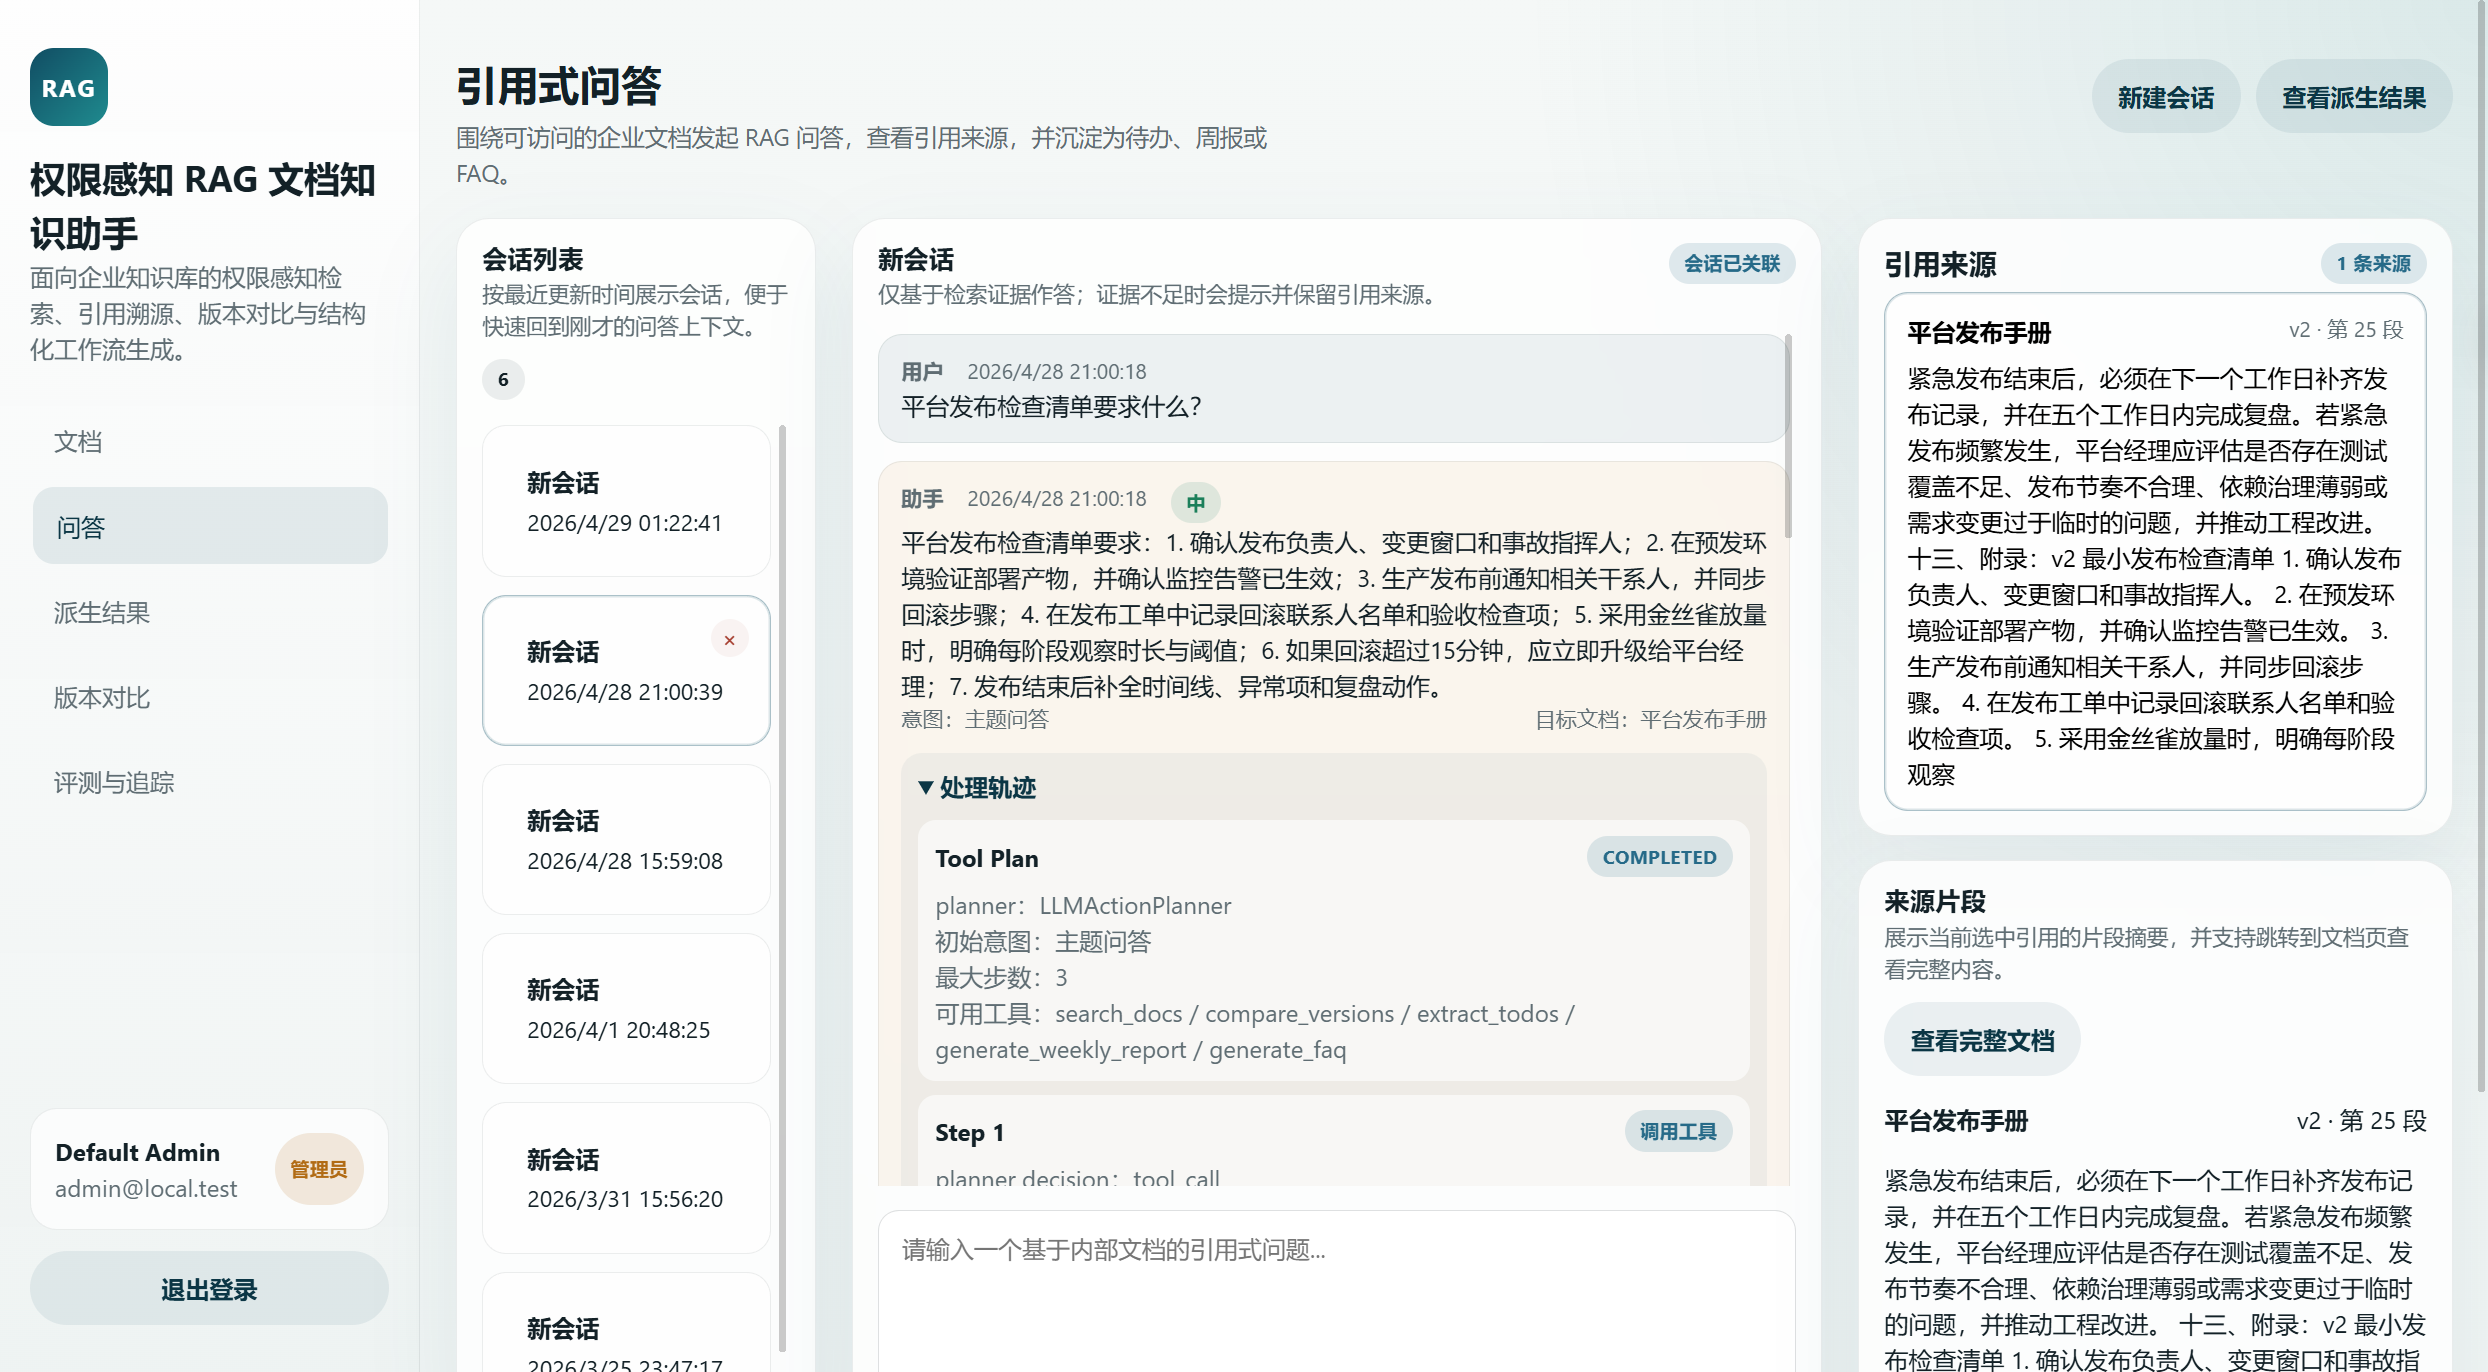
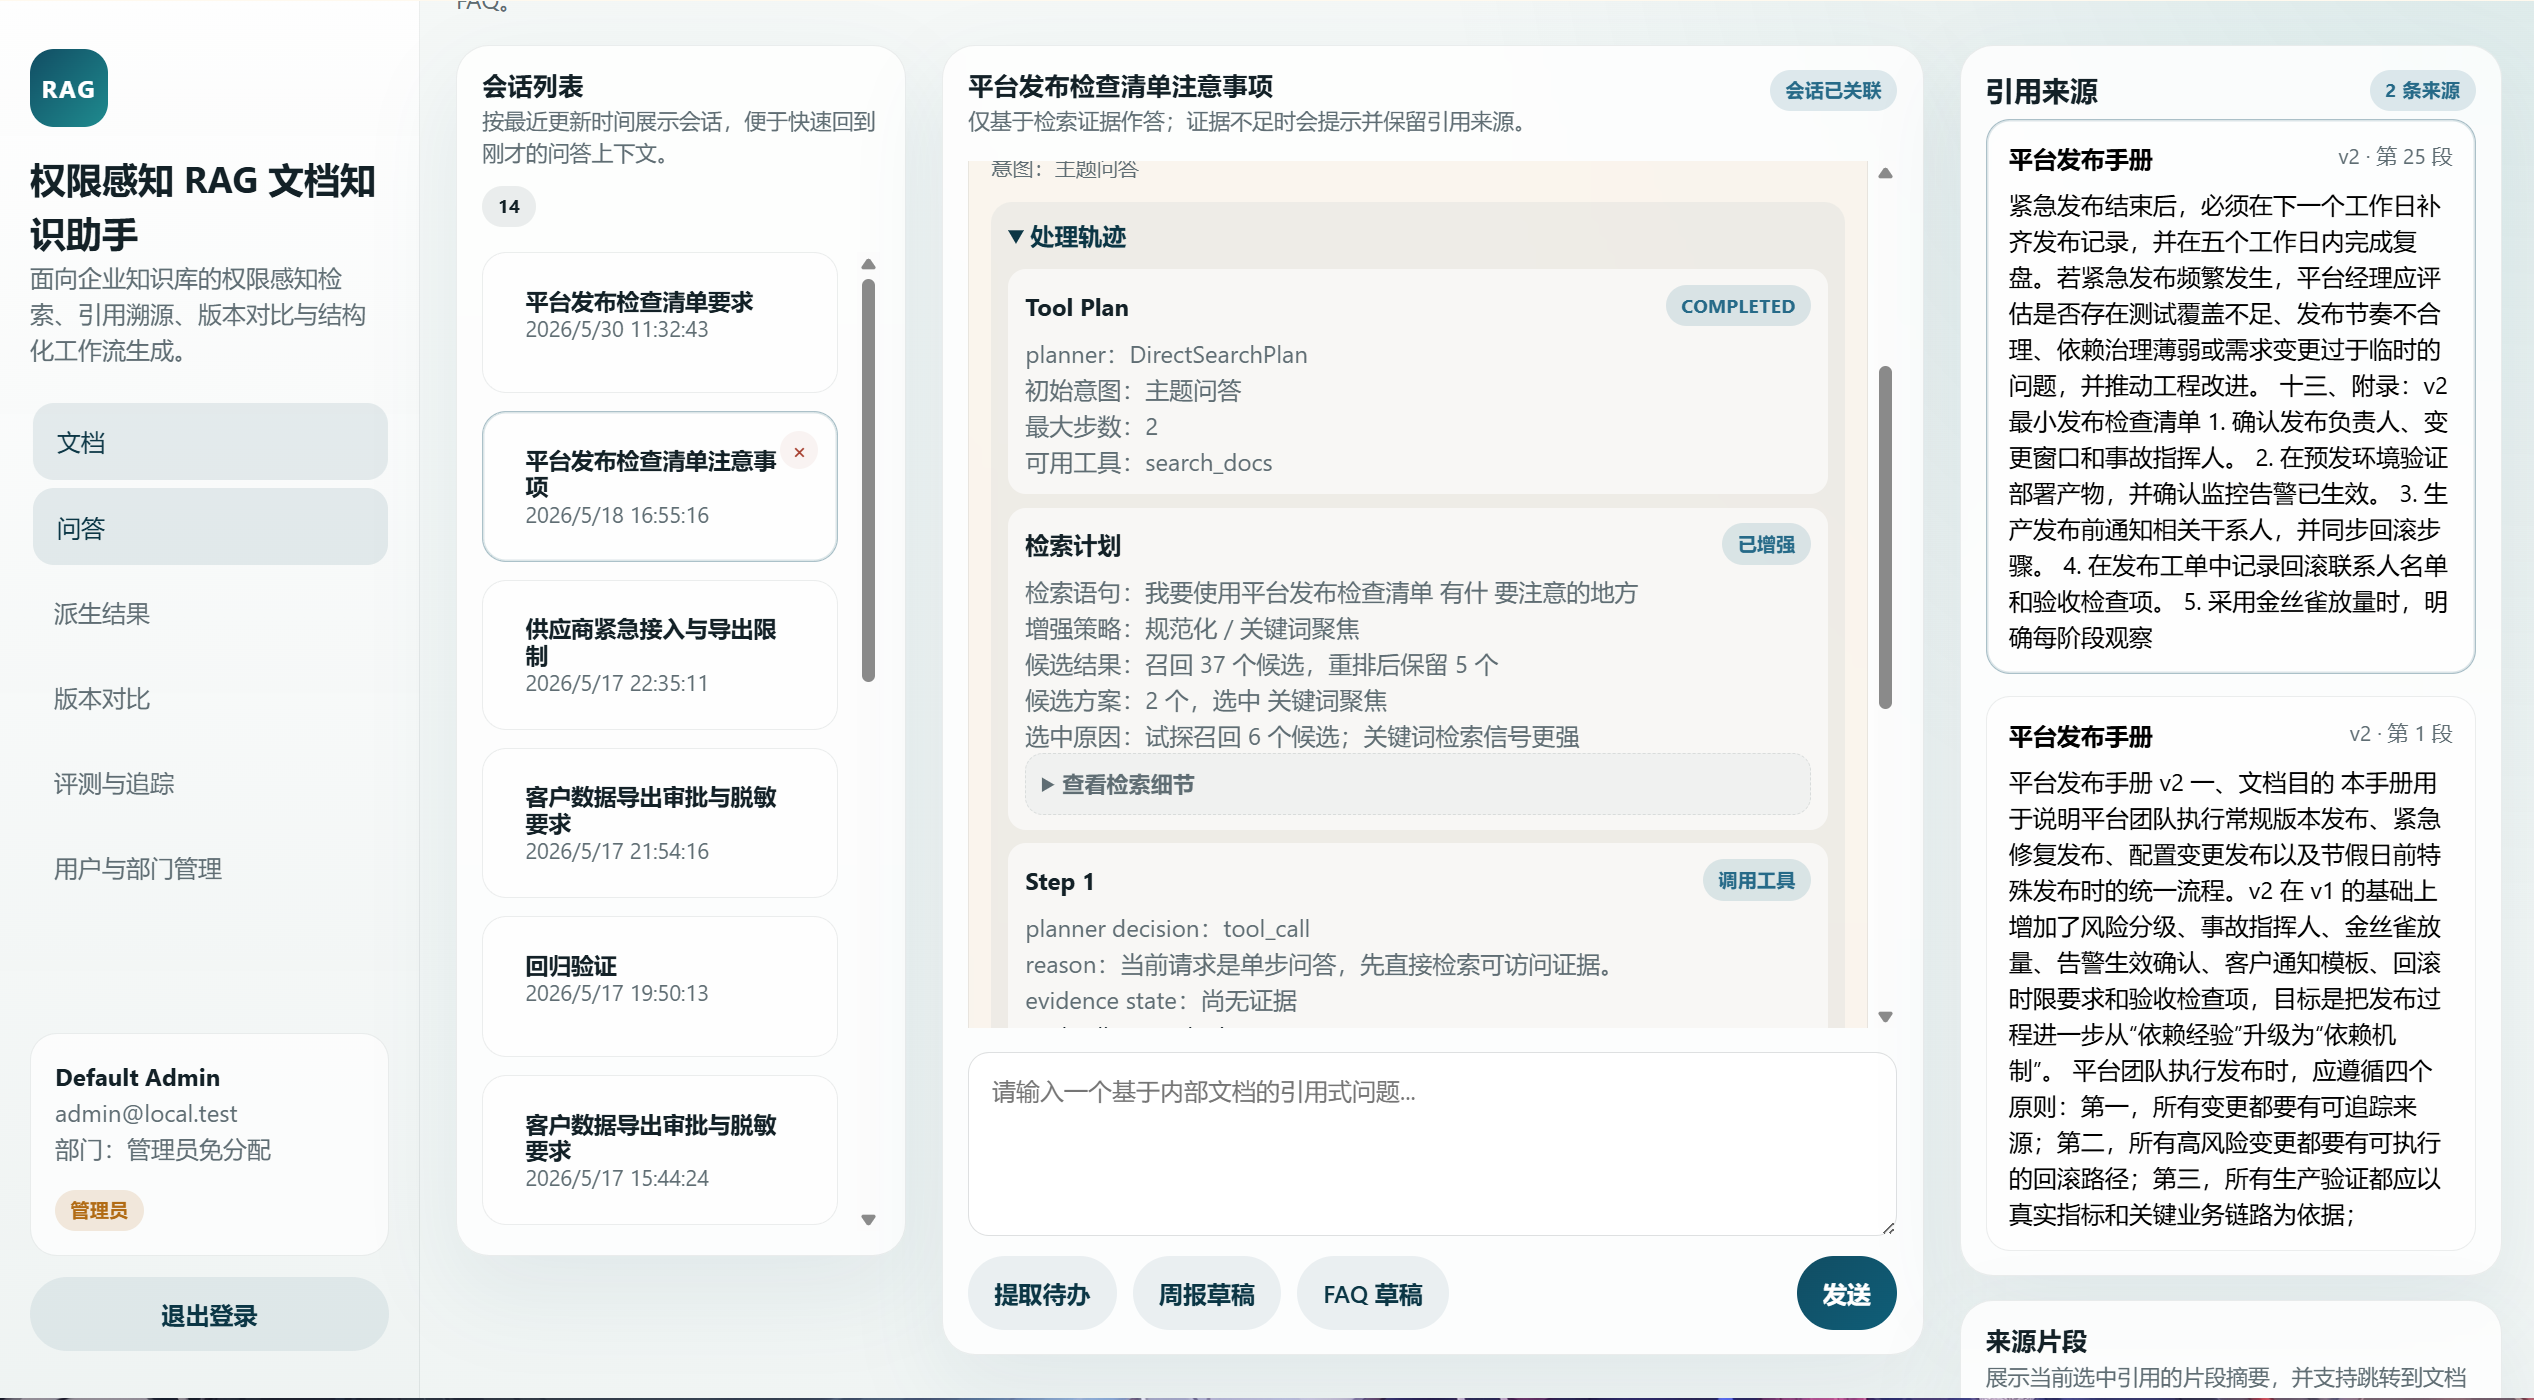
26.7 update README screenshots

diff --git a/README.md b/README.md
@@ -4,10 +4,11 @@
 
 ## 界面预览
 <p align="center">
-  <img src="docs/assets/chat_citation.png" alt="引用问答预览" width="82%" />
+  <img src="docs/assets/chat_citation.png" alt="引用问答与证据溯源" width="48%" />
+  <img src="docs/assets/department_user.png" alt="部门与用户管理" width="48%" />
 </p>
 <p align="center">
-  <sub>主流程示意：权限感知检索、引用问答与会话沉淀</sub>
+  <sub>引用问答与证据溯源 / 多级部门与用户管理</sub>
 </p>
 
 ## 项目概述
@@ -31,14 +32,17 @@
 - 版本对比：支持原始 diff、差异摘要和影响提示
 - 结构化结果生成：支持待办、周报草稿、FAQ 草稿生成
 - 评测与链路追踪：支持效果验证与 trace 记录
+- 用户与部门管理：支持管理员维护用户、分配角色、调整启停状态，并通过树状视图管理多级部门
 
 ## 主要功能
 - 提供 `viewer / manager / admin` 三类演示账号，并额外保留 `viewer2@local.test` 用于部门权限演示
+- 支持管理员在前端维护用户信息、角色、启停状态和所属部门
 - 当前已接入 `TXT / Markdown / HTML / PDF / DOCX / CSV / PNG / JPG / JPEG` 的上传与解析链路
 - 当前对 Markdown、HTML、DOCX、CSV 和文本型 PDF 提供基础表格提取，表格行会转成可检索文本
 - 当前可选图片 OCR 入库；扫描版 PDF 仅在页级文本不足时走 OCR fallback，规整图片表格只做 best-effort 提取
 - 保留文档版本和基础历史记录
-- 文档级 ACL 当前覆盖 `public / user / role / department`，并兼容旧版 `team_name` 数据
+- 文档级 ACL 当前覆盖 `public / user / role / department`，部门 ACL 支持父子部门继承，并兼容旧版 `team_name` 数据
+- 部门管理支持树状展示、新建、改名、移动、删除保护和稳定组织编号
 - 基于 PostgreSQL FTS + pgvector 的权限感知混合检索，外加可配置候选重排
 - 引用式问答返回 answer / citation / confidence，并在证据不足时显式兜底
 - 基于上下文的多步骤处理目前只在已注册工具集合内做有限步决策
@@ -355,11 +359,13 @@ npm run dev
 3. 打开 `http://localhost:18073`
 4. 使用 `admin@local.test` 登录
 5. 在 `Documents` 页面查看文档、版本、ACL 和 chunk
-6. 在 `Chat` 页面提问并查看 citation
-7. 从当前 session 生成待办、周报草稿和 FAQ 草稿
-8. 在 `Versions` 页面查看文档 diff 和摘要
-9. 在 `Insights` 页面运行 demo eval 并查看 trace
-10. 如需演示部门权限，可手动输入 `viewer2@local.test / viewer123` 并验证部门文档访问效果
+6. 在 `Users` 页面查看用户、维护角色与启停状态，并通过部门树调整用户归属
+7. 在 `Documents` 页面给文档配置部门 ACL，验证父部门授权对子部门用户生效
+8. 在 `Chat` 页面提问并查看 citation
+9. 从当前 session 生成待办、周报草稿和 FAQ 草稿
+10. 在 `Versions` 页面查看文档 diff 和摘要
+11. 在 `Insights` 页面运行 demo eval 并查看 trace
+12. 如需演示部门权限，可手动输入 `viewer2@local.test / viewer123` 并验证部门文档访问效果
 
 ## 关键接口
 ### 认证
